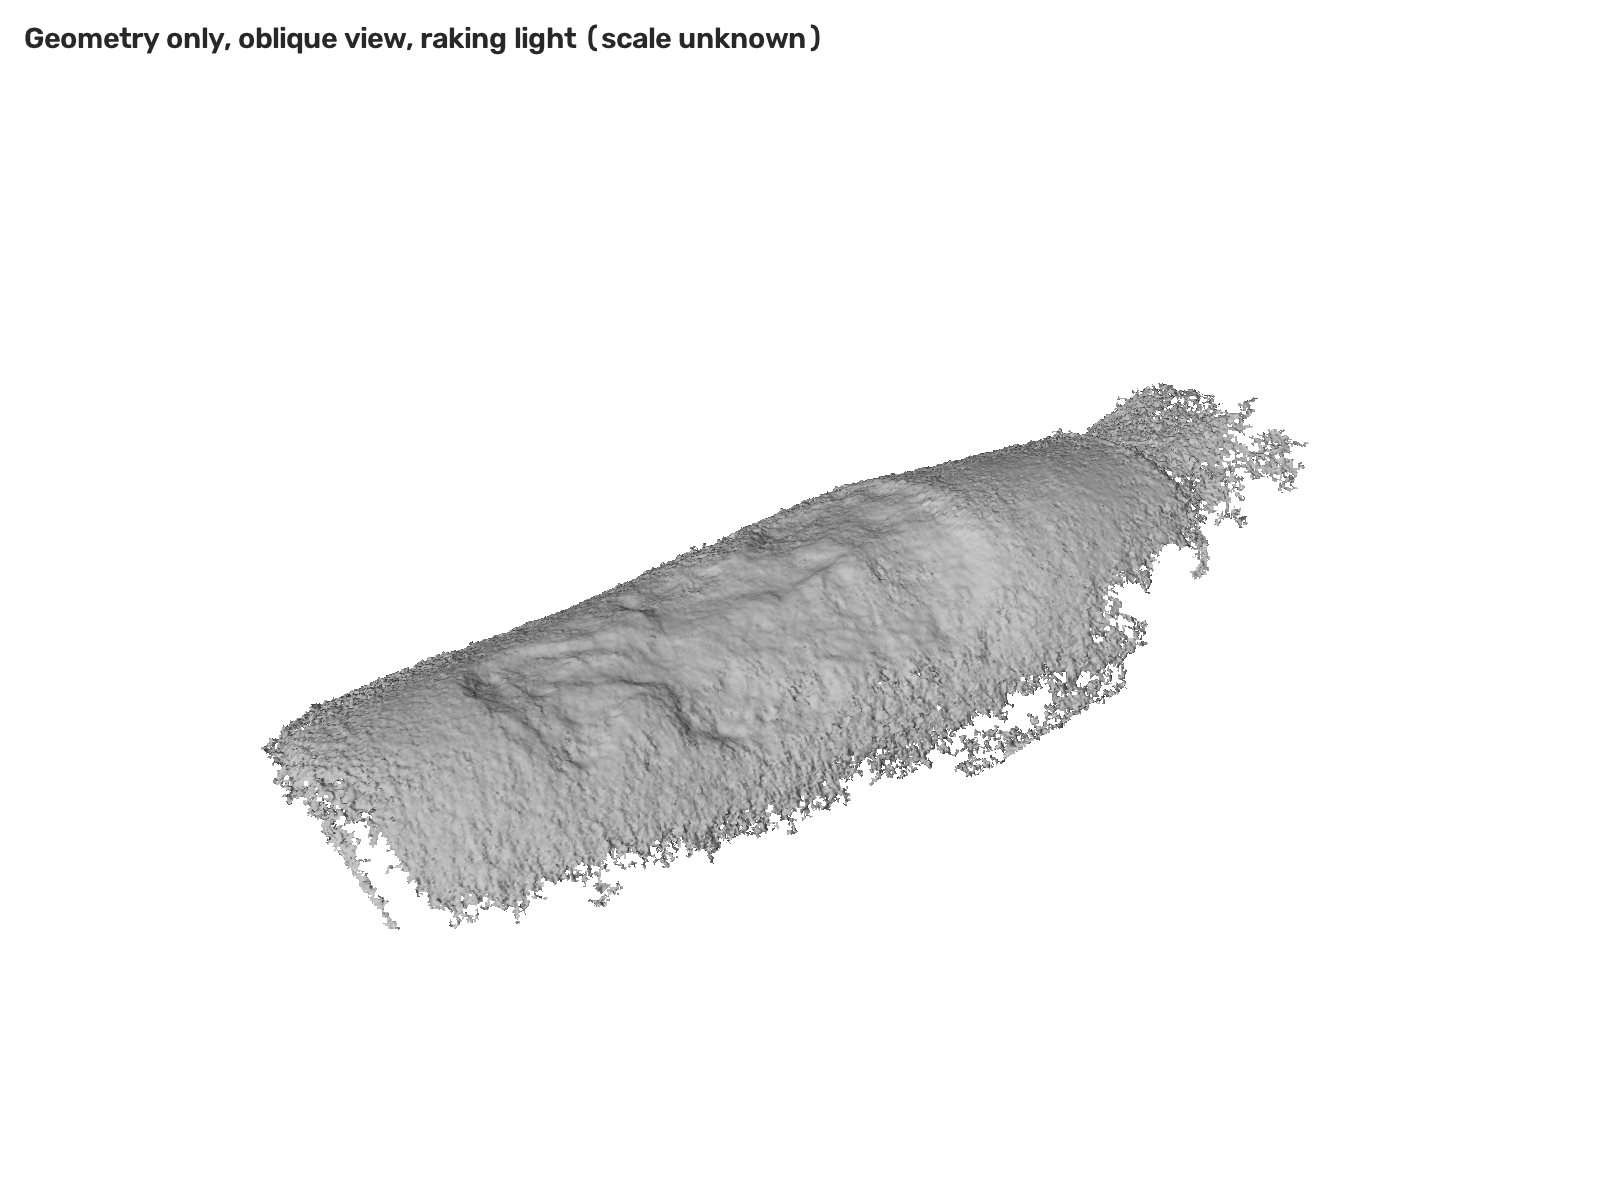
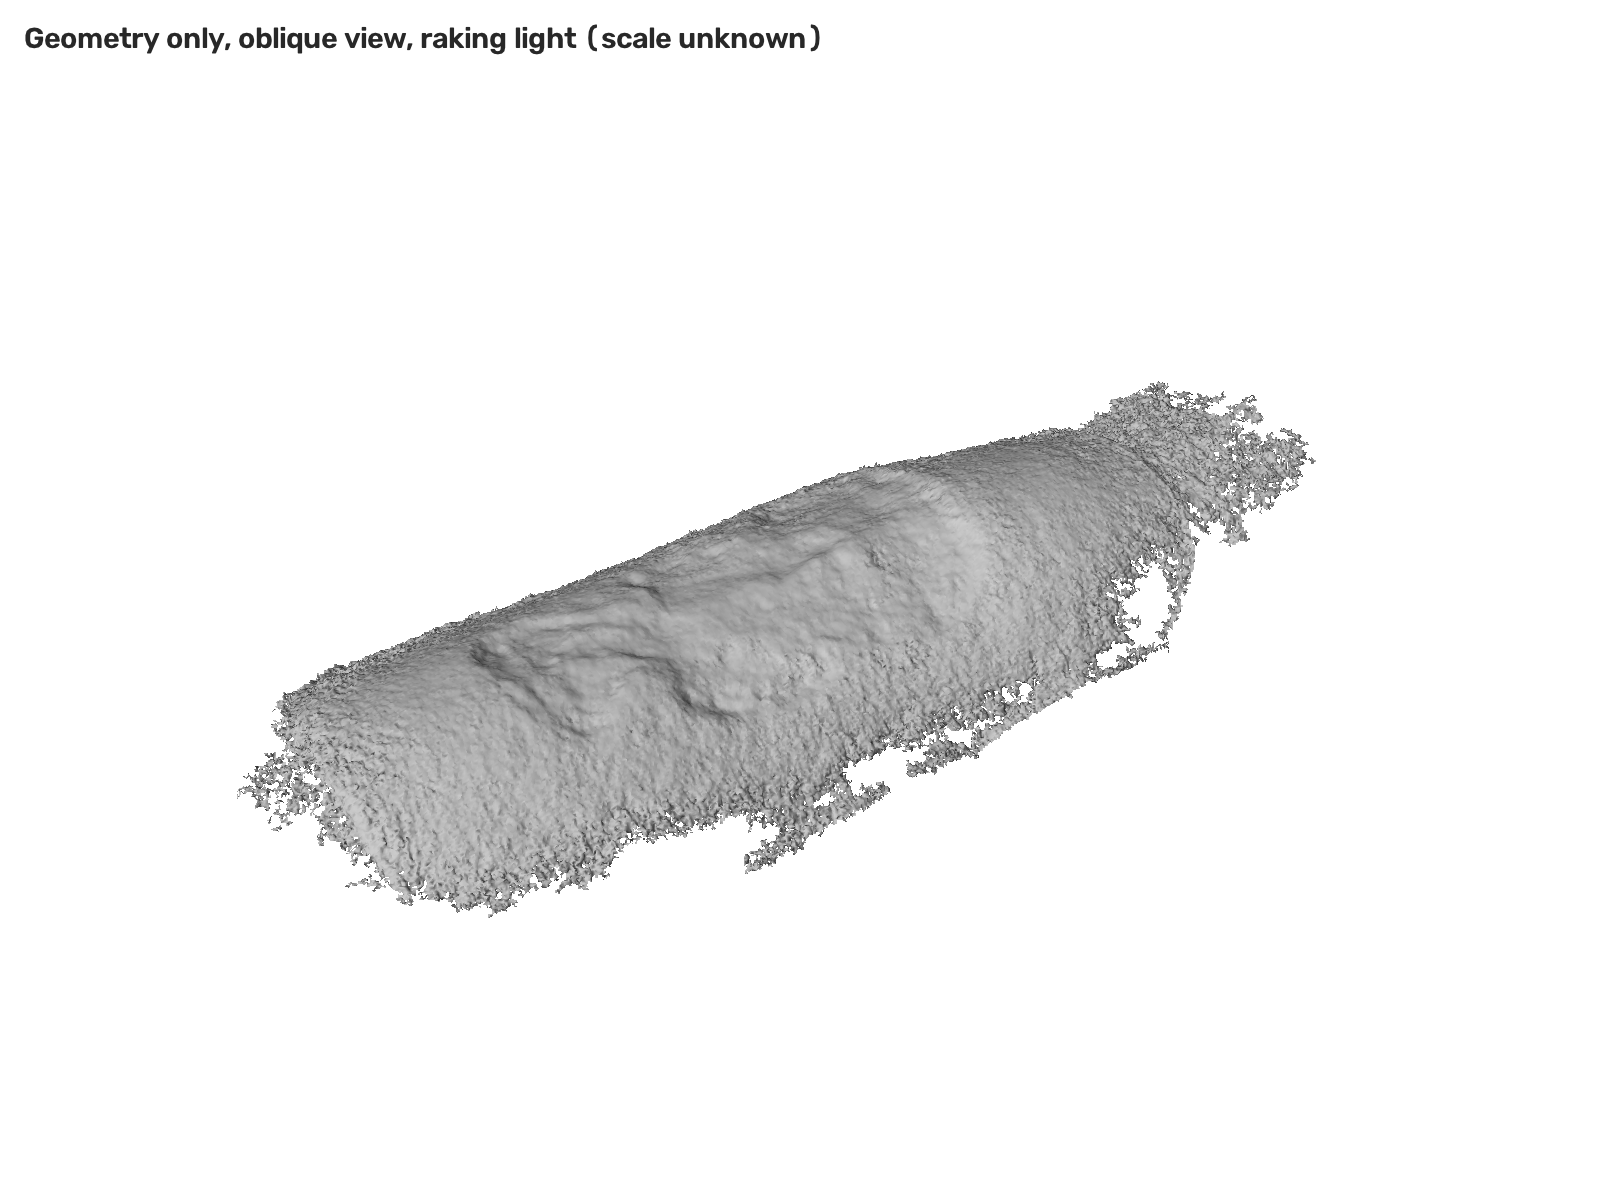
docs: document current results and refresh reconstruction previews

Changed region(s): [[0.1562, 0.3083, 0.8125, 0.7708]]

diff --git a/README.md b/README.md
@@ -1,6 +1,6 @@
 # Camera calibration and 3D wound reconstruction
 
-**Dilip Goswami · ARAIAS technical take-home**
+**Dilip Goswami**
 
 A CPU-based photogrammetry pipeline that calibrates the iPhone 13 Pro Max main
 camera and reconstructs a silicone wound moulage from RGB photographs. Outputs
@@ -9,9 +9,9 @@ vertex-coloured mesh and PLY files for inspection in MeshLab or CloudCompare.
 Experimental wound descriptors quantify sensitivity to the boundary and fitted
 reference surface.
 
-Results use reconstruction units. The gallery and primary result tables match the
-submitted report and models; corrected runs and repeatability observations are
-documented under [Reproducibility and verification](#reproducibility-and-verification).
+Results are expressed in reconstruction units. The metrics and gallery below come
+from one complete execution of the current implementation on 4 November 2026.
+Physical scale, measurement assumptions and validation limits are documented below.
 
 [Gallery](#reconstruction-gallery) · [Quick start](#quick-start) · [Method](#method) · [Results](#results) ·
 [Inspect outputs](#inspect-outputs) · [Physical scale](#physical-scale) ·
@@ -19,9 +19,9 @@ documented under [Reproducibility and verification](#reproducibility-and-verific
 
 ## Reconstruction gallery
 
-Selected renders from the **submitted model archive**, matching the report's
-158,786-vertex mesh. The subject is a silicone wound phantom. Physical scale is
-unresolved; the depth colours describe an inferred reference surface.
+Colour, geometry and depth views of the **150,887-vertex reconstructed mesh**.
+The subject is a silicone wound phantom. Depth colours represent displacement below
+a fitted reference surface in reconstruction units.
 
 <p align="center">
   <img src="assets/previews/05_textured_oblique.png" width="780" alt="Vertex-coloured reconstructed silicone wound mesh, oblique view; scale unknown">
@@ -30,14 +30,14 @@ unresolved; the depth colours describe an inferred reference surface.
 | Surface geometry | Experimental depth |
 |---|---|
 | ![Neutral oblique rendering of the reconstructed mesh](assets/previews/02_geometry_oblique.png) | ![Experimental wound depth relative to the fitted intact-surface reference](assets/previews/03_wound_depth.png) |
-| Neutral shading exposes relief and open outer boundaries. | Purple is zero; yellow is P99, about 3.27% of wound length. |
+| Neutral shading exposes relief and open outer boundaries. | Purple is zero; yellow is P99, about 3.0% of wound length. |
 
 Open an image for full resolution. The preview files are unchanged pipeline outputs;
 [PLY files and inspection instructions](#inspect-outputs) are described below.
 
 ## Quick start
 
-Use **Python 3.13** for the pinned environment. The reference run used Python 3.13.5
+Use **Python 3.13** for the pinned environment. The recorded execution used Python 3.13.5
 on macOS arm64 with four OpenCV threads. The package declares Python 3.12+ support;
 the supplied lock file was resolved for Python 3.13. No GPU, model training,
 pretrained weights or remote image service is required.
@@ -67,8 +67,8 @@ checkout. Configuration is in `configs/default.yaml`; packaged defaults are in
 `src/woundrecon/resources/default.yaml`. Use one OpenCV distribution:
 `opencv-python-headless`.
 
-The archived reference recorded **14.1 minutes of stage computation**, excluding
-startup and verification. This is an observed runtime, not a controlled benchmark.
+The recorded execution took **14.2 minutes of stage computation**, excluding startup
+and verification. Runtime depends on hardware and system load.
 Logs and `run_manifest.json` record stage outcomes, timings, settings, source/input
 hashes, library versions and artifact hashes. PDF typesetting is separate.
 
@@ -105,20 +105,22 @@ Key decisions:
 
 ## Results
 
-Numerical results in this section describe the **submitted model archive** and
-match the accompanying report.
+Recorded execution: **4 November 2026**, Python 3.13.5, macOS arm64, four OpenCV
+threads. All eight pipeline stages completed and saved-output verification passed.
 
 | Evidence | Recorded result |
 |---|---|
 | Calibration | 22/22 boards; fit RMS 0.528 px; mean held-out RMS 0.608 px |
 | Registered wound photographs | 23/23 |
-| Sparse landmarks | 12,403 raw; 3,509 exported with observations in at least three views |
-| Accepted depth maps / dense points | 21 / 2,647,657 |
-| Mesh vertices / triangles | 158,786 / 298,961 |
+| Sparse landmarks | 12,353 raw; 3,481 exported with observations in at least three views |
+| Accepted depth maps / dense points | 22 / 2,876,364 |
+| Dense inspection cloud | 553,189 points |
+| Mesh vertices / triangles | 150,887 / 285,063 |
 | Components / non-manifold edges | 1 / 0 |
-| Open edges touching saved wound mask | 0; outer boundaries remain open |
-| Normal/winding agreement, faces / area | 99.61% / 99.70% |
-| Sparse-to-mesh median distance | 0.26% of wound length within the mesh footprint |
+| Open edges | 20,621 total; 0 touching the saved wound mask |
+| Normal/winding agreement, faces / area | 99.45% / 99.57% |
+| Sparse-to-mesh distance within footprint | Median 0.257% of wound length; P95 1.158% |
+| Hashed inspection renders | 5 PNGs |
 
 Sparse-to-mesh agreement is internal consistency under shared camera/image
 assumptions; it is not independent surface accuracy. Zero wound-mask open edges is
@@ -162,14 +164,14 @@ and compared on common held-out associations with disjoint pose/scoring partitio
 
 ### Experimental wound descriptors
 
-For nominal wound length **L = 3.718 reconstruction units**:
+For nominal wound length **L = 3.730 reconstruction units**:
 
 | Descriptor | Nominal | Definition sensitivity |
 |---|---|---|
-| Width | 0.517 L | 0.508–0.518 L |
-| Projected area | 0.384 L² | 0.323–0.394 L² |
-| Depth P99 | 0.0327 L | 0.0291–0.0473 L |
-| Volume below fitted reference | 0.0070 L³ | 0.0047–0.0111 L³ |
+| Width | 0.517 L | 0.497–0.517 L |
+| Projected area | 0.373 L² | 0.336–0.394 L² |
+| Depth P99 | 0.02996 L | 0.02868–0.05012 L |
+| Volume below fitted reference | 0.005905 L³ | 0.004734–0.011916 L³ |
 
 Each variant uses its own wound length. These one-at-a-time ranges are not confidence
 intervals. Depth is measured along canonical z; P99 is the projected-area-weighted
@@ -178,9 +180,10 @@ and the boundary is unreviewed. These are not validated clinical measurements.
 
 ## Inspect outputs
 
-Paths below are relative to the selected output directory. Original photographs,
-full reconstruction files and reports are delivered separately. Only the three
-curated gallery previews are included here.
+Paths below are relative to the selected output directory. Full geometry is
+produced by the pipeline; the repository includes three rendered previews in
+`assets/previews/`. Input photographs and full reconstruction files are excluded
+from version control.
 
 | Artifact | Purpose |
 |---|---|
@@ -208,11 +211,13 @@ geometry defects.
 ## Physical scale
 
 Scaling the scene and camera positions together preserves monocular projections.
-The brief describes a known-size reference, but its identity/dimension was not
-established. The checkerboard is absent from the wound views and its square size
-was unspecified. Visual inspection and searches over eight ArUco/AprilTag dictionaries
-found no verified scene reference; a negative coded-marker search cannot rule out
-an uncoded reference. Metric scale therefore remains an unmet requirement.
+A verified physical length is therefore required for metric scale. No reference
+with a confirmed size was established in the wound photographs. The calibration
+board is absent from those views and its square size was unspecified.
+
+A search over eight ArUco/AprilTag dictionaries found no coded marker; this does not
+exclude an uncoded reference. A verified manufacturer dimension or measurement
+between identifiable, rigid features of the moulage can provide a scale source.
 
 Set one source in `configs/default.yaml`, then run the full pipeline into a new
 output directory:
@@ -260,34 +265,18 @@ Use each run's own measurements when preparing its report.
 |---|---|
 | Bundle-adjustment acceptance | Evaluate candidates on copied camera, pose and point state. Rejection or validation exceptions preserve retained state. Report candidate and retained RMS separately and reject negative solver statuses. |
 | Render integrity | Writers and artifact inventories share the same folder mapping and hash all five PNGs. A real-renderer regression alters a copied PNG and requires verification to fail. |
-| Stereo support | Try ranked reserves until six usable partners are found or candidates are exhausted. Keep disparity, agreement and TSDF support thresholds unchanged. |
+| Stereo support | Try ranked reserves until six usable partners are found or candidates are exhausted. Apply the configured disparity, agreement and TSDF support thresholds. |
 
-No rejected adjustment was recorded in the submitted archive, so a rollback effect
-on its geometry was not demonstrated. Missing screenshot hashes weakened integrity
-checks without changing coordinates. Reserve matching changes coverage and can
-change the derived descriptors.
+### Repeating the experiment
 
-### Recorded runs
+Use the pinned environment, input image bytes, configuration and thread count.
+Randomised steps are seeded, but native numerical execution and threshold decisions
+can still change the camera solution, accepted support and output counts. Compare
+coverage, topology and descriptor definitions alongside numerical values; the
+recorded metrics are individual run results, not predefined acceptance tolerances.
 
-All four runs used the same input hashes, macOS arm64 and Python 3.13.5. Each completed
-all eight stages and has saved passing verification. L is each run's nominal wound
-length. These outcomes are not reproduction tolerances or physical-accuracy bounds.
-
-| Evidence | Submitted archive | Corrected archive | Submitted repeat | Corrected repeat |
-|---|---:|---:|---:|---:|
-| Date (2026) | 28 Oct | 28 Oct | 4 Nov | 4 Nov |
-| Accepted depth maps | 21 | 22 | 20 | 22 |
-| Dense points | 2,647,657 | 2,894,366 | 2,578,291 | 2,876,364 |
-| Mesh vertices / triangles | 158,786 / 298,961 | 155,647 / 292,891 | 152,964 / 288,545 | 150,887 / 285,063 |
-| Relative depth P99 / L | 0.03273 | 0.03008 | 0.03112 | 0.02996 |
-| Relative volume / L³ | 0.006977 | 0.005936 | 0.006260 | 0.005905 |
-| Hashed render PNGs | 0 | 5 | 0 | 5 |
-
-All registered 23/23 photographs with zero open edges touching the saved wound mask;
-physical scale remained unresolved and measurement status remained uncertain.
-Between archived runs, P99 changed -8.1% and volume -14.9%. Full reruns are not a
-controlled ablation: numerical optimisation and threshold decisions also affect
-poses and downstream support. Lower descriptors do not establish better accuracy.
+Verification establishes saved-file integrity and configured software/geometry
+checks. Independent reference geometry is needed to measure physical accuracy.
 
 ## Development
 
@@ -329,7 +318,7 @@ available in the repository. Source-checkout wrappers for all three commands are
 
 ```text
 .github/workflows/quality.yml  automated source and package checks
-assets/previews/              three submitted-run inspection renders
+assets/previews/              three recorded-run inspection renders
 configs/default.yaml          pipeline settings
 src/woundrecon/                numerical modules, CLI and stage orchestration
   stages/                     audit, calibrate, sfm, dense, mesh, scale, measure, render
@@ -347,17 +336,19 @@ geometry and measurement. `provenance.py` and `reuse.py` bind dependencies;
 
 ## Limitations and next steps
 
-The main gaps are verified scale and independent surface truth. Peripheral
-calibration uncertainty, unlocked focus/exposure, specular regions, possible motion
-and unreviewed boundary/reference definitions also limit measurements. Point count
-and visual smoothness are not accuracy evidence.
+| Limitation | Observed consequence | Next step |
+|---|---|---|
+| Unverified scene scale | Length, area and volume remain in reconstruction units | Measure a rigid in-scene reference and validate on a separate length |
+| Peripheral calibration uncertainty | Distortion extrapolation is unstable near sensor corners | Use a rigid target with varied tilt, distance and edge/corner coverage at the intended focus |
+| Limited stereo feasibility | One registered photograph has no accepted depth map because every attempted partner exceeded the disparity-search budget | Investigate pose/orientation and acquisition geometry; assess wider search against memory/runtime cost |
+| Incomplete observation support | Outer boundaries remain open and irregular | Improve viewpoint coverage and evaluate completeness against reference geometry |
+| Heuristic boundary and inferred intact surface | Depth/volume depend on the definition; measurement status remains uncertain | Obtain expert-reviewed boundaries and measured phantom geometry |
+| One phantom and capture setting | Generalisation to clinical scenes is untested | Evaluate diverse authorised captures across sessions, operators and devices |
 
-Priorities: identify/measure an in-scene reference; improve rigid-target calibration
-with edge/tilt coverage at the intended focus distance; obtain reference phantom
-geometry and reviewed boundaries. Then quantify surface error, completeness and
-repeatability across sessions/operators using common regions and matched resolution.
-Agree acceptance tolerances before comparing methods and request recapture when
-observation support is inadequate.
+Unlocked focus/exposure, specular regions and possible motion can also affect
+correspondence and shape. Point count and smooth appearance do not establish
+accuracy. Define error/completeness tolerances before benchmarking, and request
+recapture when observation support is inadequate.
 
 ## Methods and tools
 
